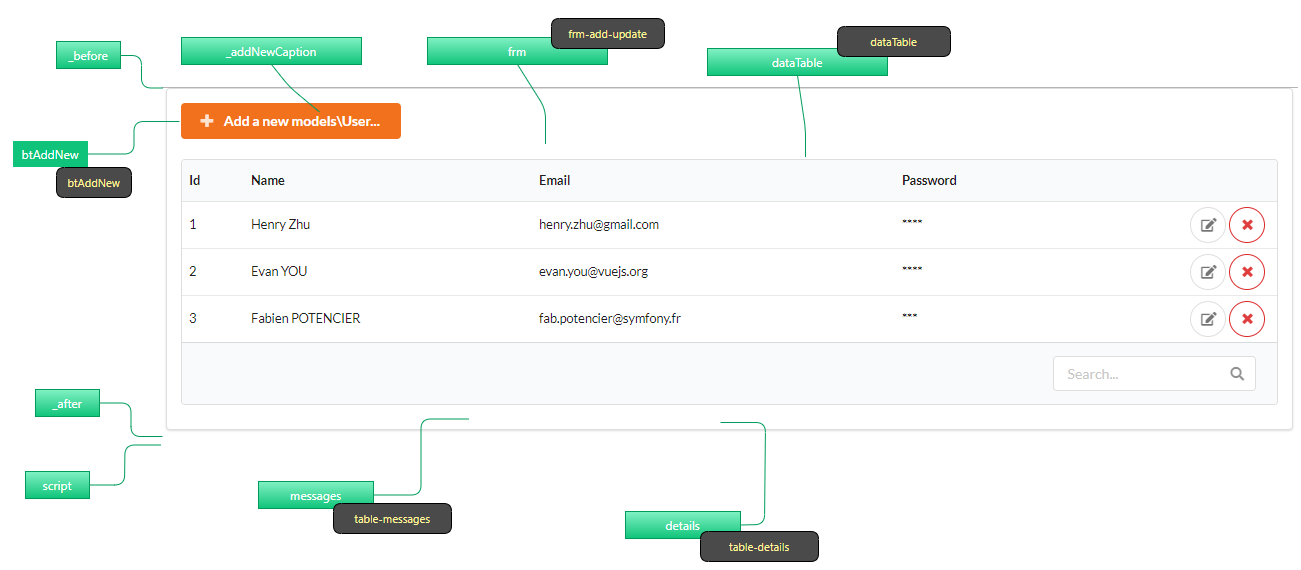
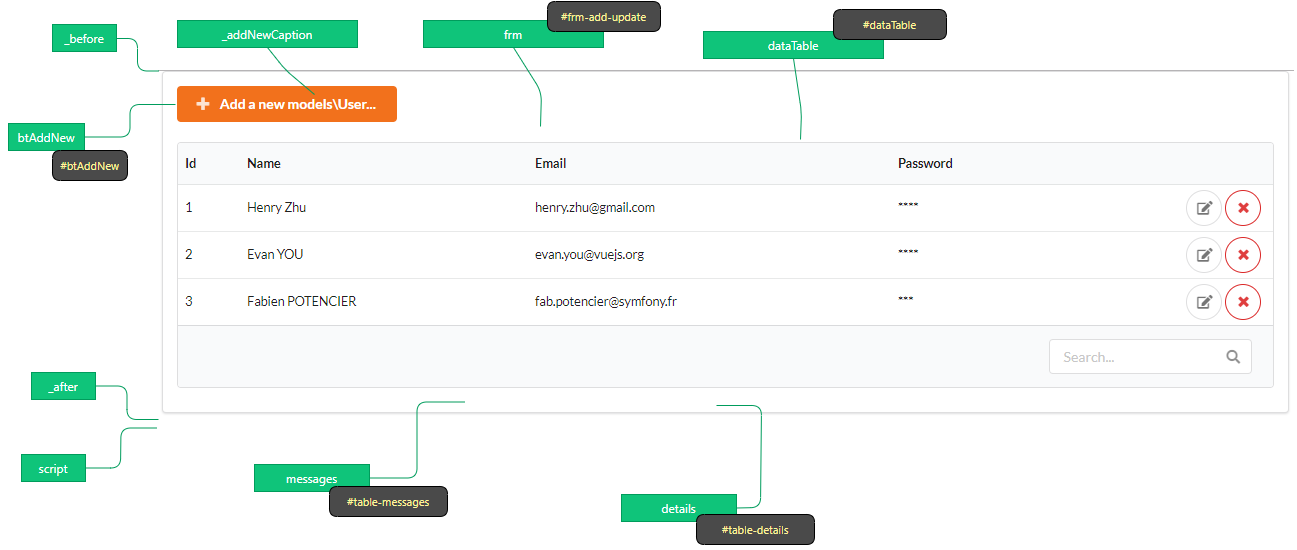
moves _getInstancesFilter in CRUDDatas class + CRUD templates docs

diff --git a/Ubiquity/controllers/crud/CRUDController.php b/Ubiquity/controllers/crud/CRUDController.php
@@ -42,7 +42,7 @@ abstract class CRUDController extends ControllerBase implements HasModelViewerIn
 	protected function getInstances(&$totalCount,$page=1,$id=null){
 		$this->activePage=$page;
 		$model=$this->model;
-		$condition=$this->_getInstancesFilter($model);
+		$condition=$this->_getAdminData()->_getInstancesFilter($model);
 		$totalCount=DAO::count($model,$condition);
 		$recordsPerPage=$this->_getModelViewer()->recordsPerPage($model,$totalCount);
 		if(is_numeric($recordsPerPage)){
@@ -55,17 +55,9 @@ abstract class CRUDController extends ControllerBase implements HasModelViewerIn
 		return DAO::getAll($model,$condition);
 	}
 	
-	/**
-	 * {@inheritDoc}
-	 * @see \Ubiquity\controllers\admin\interfaces\HasModelViewerInterface::_getInstancesFilter()
-	 */
-	public function _getInstancesFilter($model){
-		return "1=1";
-	}
-	
 	protected function search($model,$search){
 		$fields=$this->_getAdminData()->getSearchFieldNames($model);
-		$condition=$this->_getInstancesFilter($model);
+		$condition=$this->_getAdminData()->_getInstancesFilter($model);
 		return CRUDHelper::search($model, $search, $fields,$condition);
 	}
 	
@@ -81,7 +73,7 @@ abstract class CRUDController extends ControllerBase implements HasModelViewerIn
 			$instances=$this->getInstances($totalCount,$page);
 		}
 		if(!isset($totalCount)){
-			$totalCount=DAO::count($model,$this->_getInstancesFilter($model));
+			$totalCount=DAO::count($model,$this->_getAdminData()->_getInstancesFilter($model));
 		}
 		$recordsPerPage=$this->_getModelViewer()->recordsPerPage($model,$totalCount);
 		$grpByFields=$this->_getModelViewer()->getGroupByFields();

diff --git a/Ubiquity/controllers/admin/traits/ModelsTrait.php b/Ubiquity/controllers/admin/traits/ModelsTrait.php
@@ -82,14 +82,15 @@ trait ModelsTrait{
 	
 	protected function getInstances($model,&$totalCount,$page=1,$id=null){
 		$this->activePage=$page;
-		$totalCount=DAO::count($model,$this->_getInstancesFilter($model));
+		$adminDatas=$this->_getAdminData();
+		$totalCount=DAO::count($model,$adminDatas->_getInstancesFilter($model));
 		$recordsPerPage=$this->_getModelViewer()->recordsPerPage($model,$totalCount);
 		if(is_numeric($recordsPerPage)){
 			if(isset($id)){
 				$rownum=DAO::getRownum($model, $id);
 				$this->activePage=Pagination::getPageOfRow($rownum,$recordsPerPage);
 			}
-			return DAO::paginate($model,$this->activePage,$recordsPerPage,$this->_getInstancesFilter($model),false);
+			return DAO::paginate($model,$this->activePage,$recordsPerPage,$adminDatas->_getInstancesFilter($model),false);
 		}
 		return DAO::getAll($model,"",false);
 	}
@@ -107,7 +108,7 @@ trait ModelsTrait{
 			$instances=$this->getInstances($model,$totalCount,URequest::post("p",1));
 		}
 		if(!isset($totalCount)){
-			$totalCount=DAO::count($model,$this->_getInstancesFilter($model));
+			$totalCount=DAO::count($model,$this->_getAdminData()->_getInstancesFilter($model));
 		}
 		$recordsPerPage=$this->_getModelViewer()->recordsPerPage($model,$totalCount);
 		if(isset($recordsPerPage)){

diff --git a/Ubiquity/controllers/crud/CRUDDatas.php b/Ubiquity/controllers/crud/CRUDDatas.php
@@ -111,4 +111,14 @@ class CRUDDatas {
 	public function refreshPartialInstance(){
 		return true;
 	}
+	
+	/**
+	 * Adds a condition for filtering the instances displayed in dataTable
+	 * Return 1=1 by default
+	 * @param string $model
+	 * @return string
+	 */
+	public function _getInstancesFilter($model){
+		return "1=1";
+	}
 }

diff --git a/Ubiquity/controllers/admin/interfaces/HasModelViewerInterface.php b/Ubiquity/controllers/admin/interfaces/HasModelViewerInterface.php
@@ -8,7 +8,6 @@ use Ubiquity\controllers\crud\CRUDDatas;
 interface HasModelViewerInterface {
 	public function _getAdminData ():CRUDDatas;
 	public function _getBaseRoute();
-	public function _getInstancesFilter($model);
 	public function _getFiles();
 }
 

diff --git a/docs/scaffolding/crud.rst b/docs/scaffolding/crud.rst
@@ -116,6 +116,34 @@ Overview
 Classes overriding
 ^^^^^^^^^^^^^^^^^^
 
+CRUDController methods to override
+##################################
+
++-------------------------------------------------------------------+---------------------------------------------------------------------------------+-------------------+
+| Method                                                            | Signification                                                                   | Default return    |
++===================================================================+=================================================================================+===================+
+| routes                                                                                                                                                                  |
++-------------------------------------------------------------------+---------------------------------------------------------------------------------+-------------------+
+| index()                                                           | Default page : list all objects                                                 |                   |
++-------------------------------------------------------------------+---------------------------------------------------------------------------------+-------------------+
+| edit($modal="no", $ids="")                                        | Edits an instance                                                               |                   |
++-------------------------------------------------------------------+---------------------------------------------------------------------------------+-------------------+
+| newModel($modal="no")                                             | Creates a new instance                                                          |                   |
++-------------------------------------------------------------------+---------------------------------------------------------------------------------+-------------------+
+| display($modal="no",$ids="")                                      | Displays an instance                                                            |                   |
++-------------------------------------------------------------------+---------------------------------------------------------------------------------+-------------------+
+| delete($ids)                                                      | Deletes an instance                                                             |                   |
++-------------------------------------------------------------------+---------------------------------------------------------------------------------+-------------------+
+| update()                                                          | Displays the result of an instance updating                                     |                   |
++-------------------------------------------------------------------+---------------------------------------------------------------------------------+-------------------+
+| showDetail($ids)                                                  | Displays associated members with foreign keys                                   |                   |
++-------------------------------------------------------------------+---------------------------------------------------------------------------------+-------------------+
+| refresh_()                                                        | Refreshes the area corresponding to the DataTable (#lv)                         |                   |
++-------------------------------------------------------------------+---------------------------------------------------------------------------------+-------------------+
+| refreshTable($id=null)                                            | //TO COMMENT                                                                    |                   |
++-------------------------------------------------------------------+---------------------------------------------------------------------------------+-------------------+
+
+
 ModelViewer methods to override
 ###############################
 
@@ -185,6 +213,8 @@ CRUDDatas methods to override
 | Method                                                       | Signification                                                                   | Default return         |
 +==============================================================+=================================================================================+========================+
 | **index** route                                                                                                                                                         |
++--------------------------------------------------------------+---------------------------------------------------------------------------------+------------------------+
+| _getInstancesFilter($model)                                  | Adds a condition for filtering the instances displayed in dataTable             | 1=1                    |
 +--------------------------------------------------------------+---------------------------------------------------------------------------------+------------------------+
 | getFieldNames($model)                                        | Returns the fields to display in the **index** action for $model                | all member names       |
 +--------------------------------------------------------------+---------------------------------------------------------------------------------+------------------------+
@@ -280,7 +310,11 @@ form.html
 
 Displayed in **frm** block
 
+.. image:: /_static/images/crud/template_form.png
+
 display.html
 ############
 
 Displayed in **frm** block
+
+.. image:: /_static/images/crud/template_display.png
